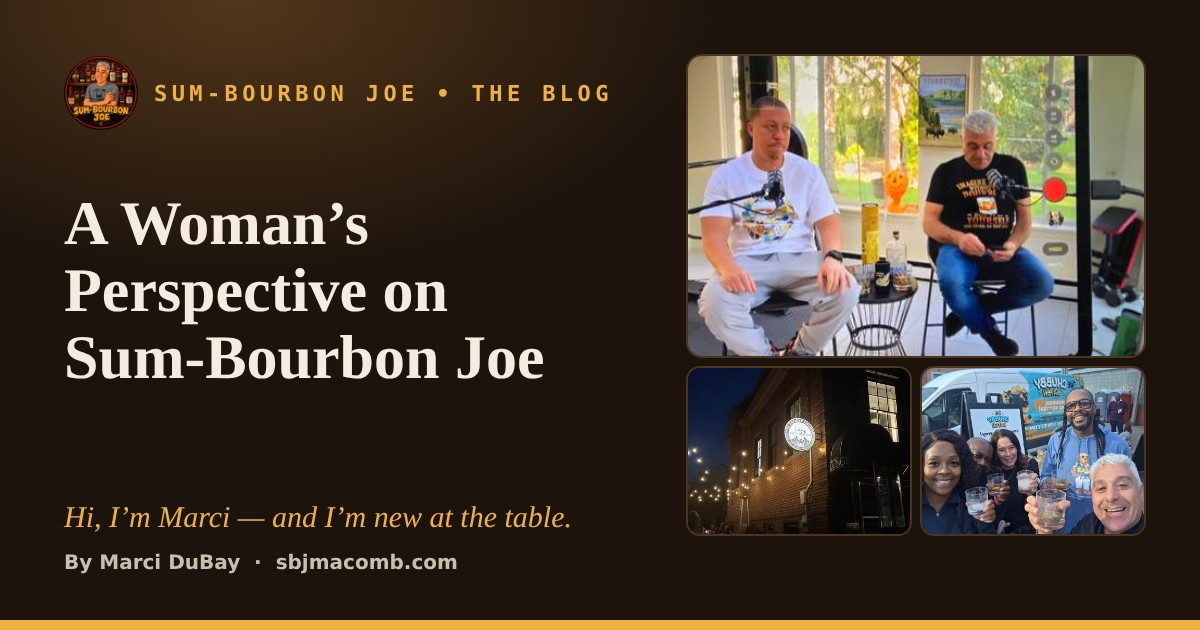
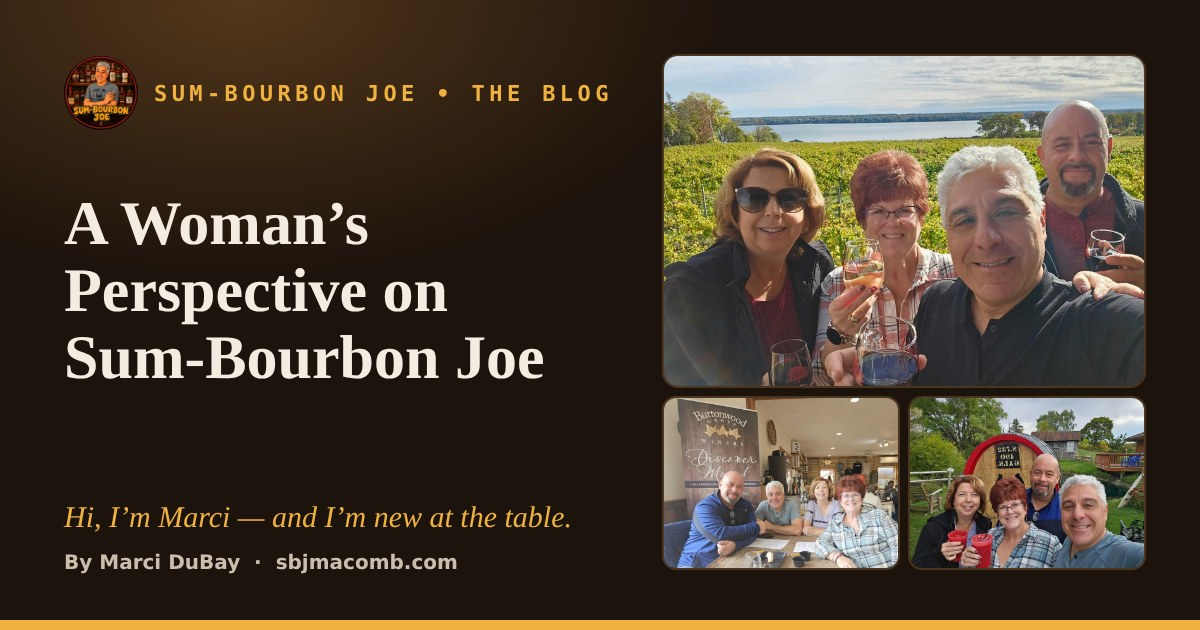
Add files via upload

diff --git a/blog-womans-perspective.html b/blog-womans-perspective.html
@@ -71,6 +71,11 @@
         </div>
       </header>
 
+      <figure class="post-photo">
+          <img src="assets/blog/marci-wine-trail-1.jpg" alt="Four friends toasting with wine glasses in front of a vineyard that rolls down to a lake" width="1520" height="1140" loading="eager" decoding="async" />
+          <figcaption>Our wine trail, Upstate New York.</figcaption>
+        </figure>
+
       <div class="share-bar top">
         <p class="share-label">Share this post</p>
         <div class="share-row" data-title="A Woman's Perspective on Sum-Bourbon Joe" data-slug="blog-womans-perspective">
@@ -87,34 +92,30 @@
         <p>I&rsquo;m Marci DuBay, and I just joined Sum-Bourbon Joe as Director of Experiences &amp; Public Relations for next season.</p>
         <p>I was born and raised in Macomb County, loving the small town feel and the beautiful scenery and great places to check out around town. I love being out in our towns, meeting the people behind the shops, bars, restaurants, and small businesses that make this place feel like home &mdash; and I love telling their stories.</p>
 
-        <div class="post-figs">
-          <figure><img src="assets/collage/night.jpg" alt="A brick building lit up at night with strings of warm lights out front" width="420" height="315" loading="lazy" decoding="async" /><figcaption>Out and about after dark.</figcaption></figure>
-          <figure><img src="assets/collage/p10.jpg" alt="A group of friends raising glasses next to a food truck at an outdoor event" width="420" height="315" loading="lazy" decoding="async" /><figcaption>Meeting the people behind the places.</figcaption></figure>
-        </div>
 
         <h2>How I found Joe</h2>
         <p>I didn&rsquo;t meet Joe through the show. I met Joe and his wife on the sidelines &mdash; our boys playing soccer, then baseball.</p>
         <p>We became fast friends pretty quickly. Same sense of humor, same love of just hanging out, same love of travel. Before long our families were vacationing together, boys and all.</p>
 
-        <div class="post-figs single">
-          <figure><img src="assets/collage/p06.jpg" alt="A group of friends smiling and holding drinks at a lively event" width="420" height="315" loading="lazy" decoding="async" /><figcaption>Good people, good pours.</figcaption></figure>
-        </div>
+        <figure class="post-photo">
+          <img src="assets/blog/marci-wine-trail-2.jpg" alt="Four friends smiling around a table at a winery tasting room, with a Finger Lakes winery banner behind them" width="1520" height="1096" loading="lazy" decoding="async" />
+          <figcaption>A tasting stop in the Finger Lakes.</figcaption>
+        </figure>
 
         <p>And then we started our own traditions. Every year, we take a trip to Kentucky and make our own bourbon trail. And every year, we take a trip to Upstate New York and make our own wine trail.</p>
         <p>So when Joe and Tarmale asked me to help take Sum-Bourbon Joe on the road, it didn&rsquo;t feel like a job offer. It felt like the next natural thing &mdash; taking what we already love doing together, and bringing the rest of Macomb County along for it.</p>
 
-        <div class="post-figs">
-          <figure><img src="assets/collage/cocktail.jpg" alt="A bourbon old fashioned with an orange peel next to a coupe glass on a dim bar" width="420" height="315" loading="lazy" decoding="async" /><figcaption>Bourbon, always.</figcaption></figure>
-          <figure><img src="assets/collage/vines.jpg" alt="Rows of grapevines on a sunny day" width="420" height="315" loading="lazy" decoding="async" /><figcaption>And a little wine, too.</figcaption></figure>
-        </div>
+        <figure class="post-photo">
+          <img src="assets/blog/marci-wine-trail-3.jpg" alt="Four friends toasting with frozen drinks in front of a giant red-trimmed wine barrel at a winery" width="1520" height="1140" loading="lazy" decoding="async" />
+          <figcaption>Cheers from the trail.</figcaption>
+        </figure>
 
         <h2>Why I said yes</h2>
         <p>Next season, we&rsquo;re recording 10 episodes at 10 different locations around Macomb County. My job is to find those spots, build the relationships, and make sure every guest feels welcome at the table.</p>
         <p>It&rsquo;s not about fancy. It&rsquo;s about real stories, real people, and the places we already love.</p>
 
-        <div class="post-figs">
+        <div class="post-figs single">
           <figure><img src="assets/collage/p12.jpg" alt="Two men sitting with microphones, recording a Sum-Bourbon Joe conversation in a bright room" width="420" height="315" loading="lazy" decoding="async" /><figcaption>Pulling up a chair.</figcaption></figure>
-          <figure><img src="assets/collage/setup.jpg" alt="A laptop, microphone and notes set up on an outdoor table for a recording" width="420" height="315" loading="lazy" decoding="async" /><figcaption>Behind the scenes.</figcaption></figure>
         </div>
 
         <h2>What I&rsquo;ll be writing about here</h2>

diff --git a/assets/styles.css b/assets/styles.css
@@ -1152,3 +1152,10 @@ body.page-blog { --brown: #2c2013; --brown-2: #372715; --brown-line: #4a3520;
 .post-cta h2 .accent { color: var(--gold); font-style: italic; font-weight: 500; }
 .post-cta p { color: var(--cream-dim); max-width: 520px; margin: 0 auto 18px; font-size: 16px; line-height: 1.6; }
 .post-cta .cta-row { display: flex; gap: 12px; justify-content: center; flex-wrap: wrap; }
+
+/* Blog: large feature photos */
+.post-photo { max-width: 960px; margin: 28px auto 8px; }
+.post-body .post-photo { margin: 30px -100px 32px; max-width: none; }
+.post-photo img { width: 100%; height: auto; display: block; border-radius: 14px; box-shadow: 0 0 0 1px var(--brown-line), 0 16px 44px rgba(0,0,0,.45); }
+.post-photo figcaption { margin-top: 10px; font-size: 14px; font-style: italic; color: var(--cream-dim); text-align: center; }
+@media (max-width: 1000px) { .post-body .post-photo { margin: 26px 0 28px; } }

diff --git a/blog.html b/blog.html
@@ -68,7 +68,7 @@
       <div class="blog-list">
         <!-- NEW POSTS GO HERE (newest first). Copy this card for each post. -->
         <article class="blog-card">
-          <a class="bc-photo" href="blog-womans-perspective.html" tabindex="-1" aria-hidden="true"><img src="assets/collage/p12.jpg" alt="" width="420" height="315" loading="eager" decoding="async" /></a>
+          <a class="bc-photo" href="blog-womans-perspective.html" tabindex="-1" aria-hidden="true"><img src="assets/blog/marci-wine-trail-thumb.jpg" alt="" width="800" height="600" loading="eager" decoding="async" /></a>
           <div class="bc-body">
             <div class="bc-meta">Marci DuBay &middot; November 2026</div>
             <h2><a href="blog-womans-perspective.html">A Woman&rsquo;s Perspective on Sum-Bourbon Joe</a></h2>
